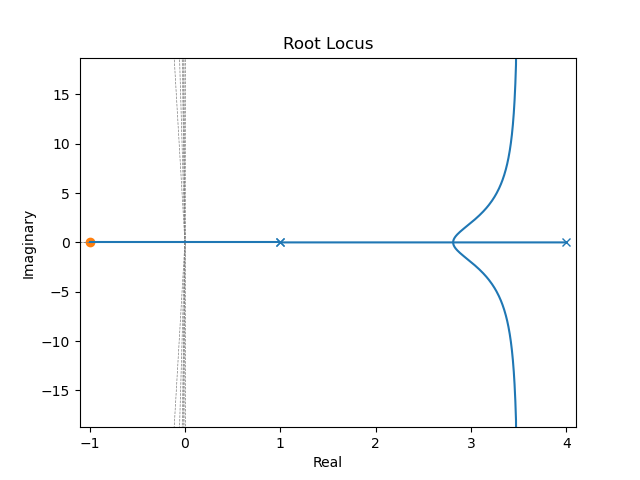
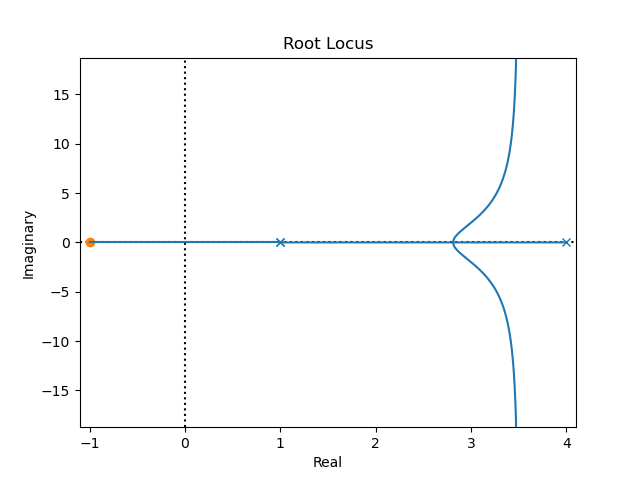
corrections lab8 excercise corrections and plots

Changed region(s): [[0.2812, 0.5312, 0.3125, 0.875], [0.2812, 0.125, 0.3125, 0.4688]]

diff --git a/lab8/exercises/exercise1/part_b/question1_a/exercise1_b_1a.py b/lab8/exercises/exercise1/part_b/question1_a/exercise1_b_1a.py
@@ -1,39 +1,44 @@
-import matplotlib.pyplot as plt
 import control as co
-import  numpy as np
-
+import matplotlib.pyplot as plt
+import numpy as np
 
 """ Συνάρτηση κατασκευής lead compensator
     input(θέσεις ενός πραγματικού μηδενικού και ενός πραγματικού πόλου)
     με αυτά κατασκευάζει τα πολυώνυμα μετά την προσθήκη των ο,x 
     returns (C(s) με αυτά κατασκευάζει) 
 """
-def lead_comp(spole,szero):
-    cz = 1+(s/(-szero))
-    cp = 1/(1+(s/(-spole)))
-    return cz*cp
+
+
+def lead_comp(spole, szero):
+    cz = 1 + (s / (-szero))
+    cp = 1 / (1 + (s / (-spole)))
+    return cz * cp
+
 
 s = co.tf('s')
 
-g = (s+1)/((s-1)*(s-4))
+g = (s + 1) / ((s - 1) * (s - 4))
 h1 = 1
-h2 = 1/(s-1)
+h2 = 1 / (s - 1)
 
-
-#a)
+# a)
 k = 120
-gf = co.feedback(k*lead_comp(-60, -10)*g, h2, -1) # υπολογίζω τους πόλου και τα μηδενικά του κλειστού συστήματος με Κ = 120 και feedback=h2
+gf = co.feedback(k * lead_comp(-60, -10) * g, h2, -1)  # υπολογίζω τους πόλου και τα μηδενικά του κλειστού συστήματος με Κ = 120 και feedback=h2
 poles = co.pole(gf)
 zeros = co.zero(gf)
-print(poles,zeros)
+print(f"poles: {poles}")
+print(f"zeros: {zeros}")
 
 plt.figure(1)
-co.root_locus(lead_comp(-60, -10)*g*h2, grid=False) # σχεδιάζω την γραφική παράστασή μου με lead_compensator
+co.root_locus(lead_comp(-60, -10) * g * h2, grid=False)  # σχεδιάζω την γραφική παράστασή μου με lead_compensator
 plt.plot(poles.real, poles.imag, 'rx')
 plt.plot(zeros.real, zeros.imag, 'ro')
 
 plt.figure(2)
-t = np.linspace(0,3,1000)
+t = np.linspace(0, 3, 1000)
 t1, yout = co.step_response(gf, t)
+plt.xlabel('Time')
+plt.ylabel('Amplitude')
+plt.grid()
 plt.plot(t1, yout)
 plt.show()

diff --git a/lab8/exercises/exercise1/part_b/question3_b/exercise1_b_3b.py b/lab8/exercises/exercise1/part_b/question3_b/exercise1_b_3b.py
@@ -1,8 +1,8 @@
-import matplotlib.pyplot as plt
 import control as co
-from functions.my_functions import step_info
+import matplotlib.pyplot as plt
 import numpy as np
 
+from functions.my_functions import step_info
 
 """ Συνάρτηση κατασκευής lead compensator
     input(θέσεις ενός πραγματικού μηδενικού και ενός πραγματικού πόλου)
@@ -26,23 +26,21 @@ h2 = 1/(s-1)
 
 #b)
 k = 60
-gf = co.feedback(k*pd_comp(-4.4)*g, h2, -1) # υπολογίζω τους πόλου και τα μηδενικά του κλειστού συστήματος με Κ = 120 και feedback=h2
+gf = co.feedback(k*pd_comp(-4.4)*g, h2, -1) # υπολογίζω τους πόλου και τα μηδενικά του κλειστού συστήματος με Κ = 60 και feedback=h2
 poles = co.pole(gf)
 zeros = co.zero(gf)
-print(poles,zeros)
+print(f"poles: {poles}")
+print(f"zeros: {zeros}")
 
 plt.figure(1)
-co.root_locus(pd_comp(-4.4)*g*h2, grid=False) # σχεδιάζω την γραφική παράστασή μου με lead_compensator
+co.root_locus(pd_comp(-4.4)*g*h2, grid=False) # σχεδιάζω την γραφική παράστασή μου με pd_compensator
 plot_ts(2)
 plt.xlim(-15,5)
 
 plt.plot(poles.real, poles.imag, 'rx')
-#plt.plot(zeros.real, zeros.imag, 'ro')
 
 t = np.linspace(0,3,1000)
 t1, yout = co.step_response(gf, t)
-
 step_info(t1, yout)
-
 
 plt.show()

diff --git a/lab8/exercises/exercise1/part_b/question3_a/exercise1_b_3a.py b/lab8/exercises/exercise1/part_b/question3_a/exercise1_b_3a.py
@@ -6,6 +6,8 @@ import matplotlib.pyplot as plt
     με αυτά κατασκευάζει τα πολυώνυμα μετά την προσθήκη των ο,x 
     returns (C(s) με αυτά κατασκευάζει) 
 """
+
+
 def pd_comp(szero):
     cz1 = 1 + (s / (-szero))
 
@@ -24,17 +26,16 @@ h2 = 1 / (s - 1)
 
 # a)
 k = 36
-gf = co.feedback(k * pd_comp(-4.4) * g, h2, -1)  # υπολογίζω τους πόλου και τα μηδενικά του κλειστού συστήματος με Κ = 120 και feedback=h2
+gf = co.feedback(k * pd_comp(-4.4) * g, h2, -1)  # υπολογίζω τους πόλου και τα μηδενικά του κλειστού συστήματος με Κ = 36 και feedback=h2
 poles = co.pole(gf)
 zeros = co.zero(gf)
-print(poles, zeros)
+print(f"poles: {poles}")
+print(f"zeros: {zeros}")
 
 plt.figure(1)
-co.root_locus(pd_comp(-4.4) * g * h2, grid=False)  # σχεδιάζω την γραφική παράστασή μου με lead_compensator
+co.root_locus(pd_comp(-4.4) * g * h2, grid=False)  # σχεδιάζω την γραφική παράστασή μου με pd_compensator
 plt.xlim(-15, 5)
-#plt.ylim(-6, 6)
-plt.plot(poles.real, poles.imag, 'rx')
-# plt.plot(zeros.real, zeros.imag, 'ro')
 
+plt.plot(poles.real, poles.imag, 'rx')
 
 plt.show()

diff --git a/final_exercises/exercise3/exercise3.py b/final_exercises/exercise3/exercise3.py
@@ -1,8 +1,9 @@
 import control as co
 import matplotlib.pyplot as plt
 import numpy as np
-from scipy import signal as sg
 from control.matlab import lsim
+from scipy import signal as sg
+
 from functions.my_functions import step_info
 
 
@@ -10,6 +11,10 @@ def find_nearest(array, value):
     array = np.asarray(array)
     idx = (np.abs(array - value)).argmin()
     return array[idx]
+
+
+def plot_ts(TS):
+    plt.axvline(-4 / TS, color='r', linestyle='--')
 
 
 s = co.tf('s')
@@ -80,10 +85,6 @@ def add_zero(szero):
     return cz
 
 
-def plot_ts(TS):
-    plt.axvline(-4 / TS, color='r', linestyle='--')
-
-
 k = 1200
 
 plt.figure(6)
@@ -131,21 +132,19 @@ plot_line(-slope1)
 
 tstep2, ystp2 = co.step_response(gf2, t)
 step_info(tstep2, ystp2)
-plt.xlim(-100,1)
+plt.xlim(-100, 1)
 
-
-#9)
+# 9)
 period = 0.1
-freq = 1/period
+freq = 1 / period
 amp = 1
-time = np.linspace(0,1,1000)
-signal_sqr = amp * sg.square(2 * np.pi *freq * time)
+time = np.linspace(0, 1, 1000)
+signal_sqr = amp * sg.square(2 * np.pi * freq * time)
 plt.figure(8)
 plt.plot(time, signal_sqr)
-closedsys,tclosed , xout= lsim(gf2, signal_sqr, time)
+closedsys, tclosed, xout = lsim(gf2, signal_sqr, time)
 
 plt.figure(9)
 plt.plot(tclosed, closedsys)
-
 
 plt.show()

diff --git a/lab8/exercises/exercise1/part_b/question2_b/exercise1_b_2b.py b/lab8/exercises/exercise1/part_b/question2_b/exercise1_b_2b.py
@@ -26,18 +26,18 @@ h2 = 1/(s-1)
 
 #b)
 k = 4
-gf = co.feedback(k*pid_comp(-0.5, -0.5)*g, h2, -1) # υπολογίζω τους πόλου και τα μηδενικά του κλειστού συστήματος με Κ = 120 και feedback=h2
+gf = co.feedback(k*pid_comp(-0.5, -0.5)*g, h2, -1) # υπολογίζω τους πόλου και τα μηδενικά του κλειστού συστήματος με Κ = 4 και feedback=h2
 poles = co.pole(gf)
 zeros = co.zero(gf)
-print(poles,zeros)
+print(f"poles: {poles}")
+print(f"zeros: {zeros}")
 
 plt.figure(1)
-co.root_locus(pid_comp(-0.5, -0.5)*g*h2, grid=False) # σχεδιάζω την γραφική παράστασή μου με lead_compensator
+co.root_locus(pid_comp(-0.5, -0.5)*g*h2, grid=False) # σχεδιάζω την γραφική παράστασή μου με pid_compensator
 plot_ts(2)
 plt.xlim(-10,3)
 plt.ylim(-6,6)
 plt.plot(poles.real, poles.imag, 'rx')
-#plt.plot(zeros.real, zeros.imag, 'ro')
 
 t = np.linspace(0,3,1000)
 t1, yout = co.step_response(gf, t)

diff --git a/lab8/exercises/exercise1/part_b/question2_a/exercise1_b_2a.py b/lab8/exercises/exercise1/part_b/question2_a/exercise1_b_2a.py
@@ -26,17 +26,18 @@ h2 = 1 / (s - 1)
 
 # a)
 k = 2.5
-gf = co.feedback(k * pid_comp(-0.5, -0.5) * g, h2, -1)  # υπολογίζω τους πόλου και τα μηδενικά του κλειστού συστήματος με Κ = 120 και feedback=h2
+gf = co.feedback(k * pid_comp(-0.5, -0.5) * g, h2, -1)
+# υπολογίζω τους πόλους και τα μηδενικά του κλειστού συστήματος με Κ = 2.5 και feedback=h2
 poles = co.pole(gf)
 zeros = co.zero(gf)
-print(poles, zeros)
+print(f"poles: {poles}")
+print(f"zeros: {zeros}")
 
 plt.figure(1)
-co.root_locus(pid_comp(-0.5, -0.5) * g * h2, grid=False)  # σχεδιάζω την γραφική παράστασή μου με lead_compensator
+# σχεδιάζω τους πόλους με PID compensator και K=2.5
+co.root_locus(pid_comp(-0.5, -0.5) * g * h2, grid=False)
 plt.xlim(-10, 3)
 plt.ylim(-6, 6)
 plt.plot(poles.real, poles.imag, 'rx')
-# plt.plot(zeros.real, zeros.imag, 'ro')
-
 
 plt.show()

diff --git a/lab8/exercises/exercise1/part_a/exercise1a2.py b/lab8/exercises/exercise1/part_a/exercise1a2.py
@@ -1,5 +1,5 @@
-import matplotlib.pyplot as plt
 import control as co
+import matplotlib.pyplot as plt
 import numpy as np
 
 
@@ -10,27 +10,27 @@ def slope_Os(x):
     denominator = 2 * pi2
     return enumrator / denominator
 
+
 def plot_Os(x):
     slope = np.tan(np.arccos(slope_Os(x)))  # overshoot 30%
     axes = plt.gca()
     x1_vals = np.array(axes.get_xlim())
     x_vals = np.array((x1_vals[0], 0))
-    y1_vals = slope*x_vals
+    y1_vals = slope * x_vals
     y2_vals = -slope * x_vals
-    plt.plot(x_vals,y1_vals, 'r--', x)
-    plt.plot(x_vals,y2_vals, 'r--')
+    plt.plot(x_vals, y1_vals, 'r--', x)
+    plt.plot(x_vals, y2_vals, 'r--')
 
 
 s = co.tf('s')
-
-g = (s+1)/((s-1)*(s-4))
+g = (s + 1) / ((s - 1) * (s - 4))
 h1 = 1
 k = 10
 
-gf = co.feedback(k*g,h1,-1)
-co.root_locus(gf)
+gf = co.feedback(k * g, h1, -1)
+co.pzmap(gf, grid=False)
 plot_Os(0.3)
 plt.xlim([-8, 2])
-plt.ylim([-3,3])
-#co.sisotool(gf)
+plt.ylim([-3, 3])
+
 plt.show()

diff --git a/lab8/exercises/exercise1/part_b/question1_b/exercise1_b_1b.py b/lab8/exercises/exercise1/part_b/question1_b/exercise1_b_1b.py
@@ -32,7 +32,8 @@ k = 150
 gf = co.feedback(k * lead_comp(-60, -10) * g, h2, -1)  # υπολογίζω τους πόλου και τα μηδενικά του κλειστού συστήματος με Κ = 150 και feedback=h2
 poles = co.pole(gf)
 zeros = co.zero(gf)
-print(poles, zeros)
+print(f"poles: {poles}")
+print(f"zeros: {zeros}")
 
 plt.figure(1)
 co.root_locus(lead_comp(-60, -10) * g * h2, grid=False)  # σχεδιάζω την γραφική παράστασή μου με lead_compensator
@@ -43,7 +44,9 @@ plt.plot(zeros.real, zeros.imag, 'ro')
 plt.figure(2)
 t = np.linspace(0, 3, 1000)
 t1, yout = co.step_response(gf, t)
-
+plt.xlabel('Time')
+plt.ylabel('Amplitude')
+plt.grid()
 step_info(t1, yout)
 plt.plot(t1, yout)
 

diff --git a/lab8/exercises/exercise1/part_a/exercise1a3.py b/lab8/exercises/exercise1/part_a/exercise1a3.py
@@ -1,18 +1,13 @@
-import matplotlib.pyplot as plt
 import control as co
-
-
-
+import matplotlib.pyplot as plt
 
 s = co.tf('s')
 
-g = (s+1)/((s-1)*(s-4))
-h1 = 1
-h2 = 1/(s-1)
-gf = co.feedback(g,h2,-1)
-
+g = (s + 1) / ((s - 1) * (s - 4))
+h2 = 1 / (s - 1)
+gf = co.feedback(g, h2, -1)
 
 plt.figure(1)
-co.root_locus(g*h2, grid=False) # βλέπω απο την rlocus οτι οι πόλοι είναι πραγματικοί και θετικοί αριθμοί, οπότε έχω πάντα αστάθεια.
+co.root_locus(g * h2, grid=False)  # βλέπω απο την rlocus οτι οι πόλοι είναι πραγματικοί και θετικοί αριθμοί, οπότε έχω πάντα αστάθεια.
 
 plt.show()
